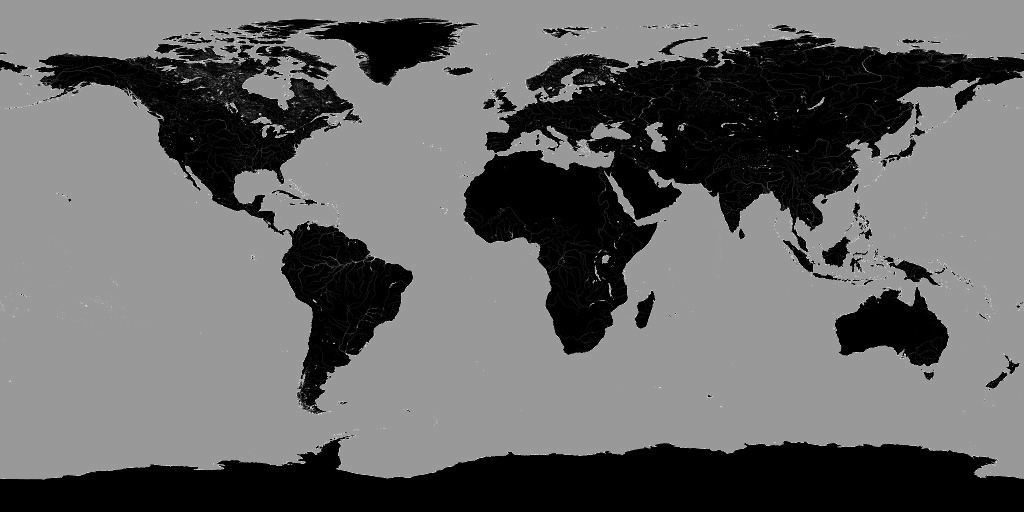
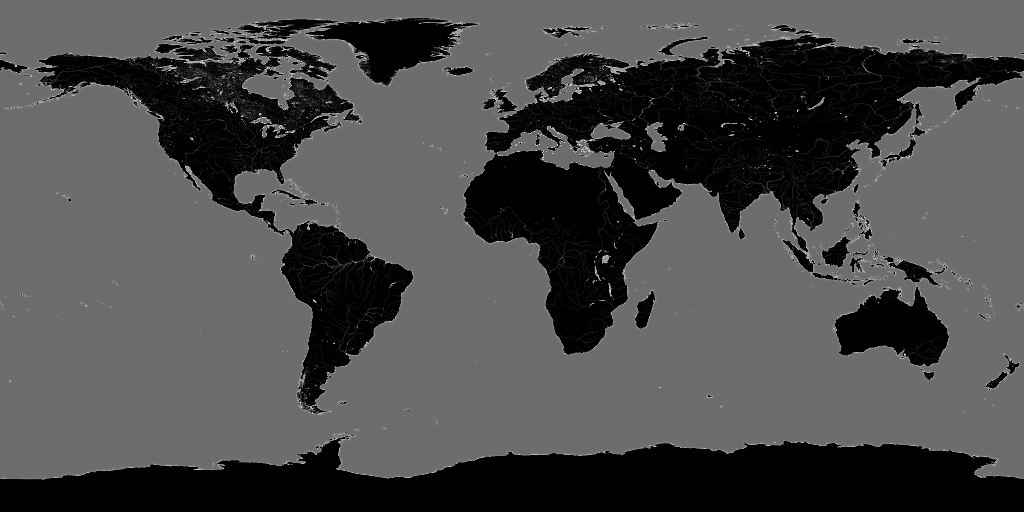
Improved earth specular texture & UI
Improved earth specular texture
Added graphical alternative for play/pause button

diff --git a/core/src/gaia/cu9/ari/gaiaorbit/interfce/FullGui.java b/core/src/gaia/cu9/ari/gaiaorbit/interfce/FullGui.java
@@ -54,7 +54,6 @@ import com.badlogic.gdx.scenes.scene2d.ui.SelectBox;
 import com.badlogic.gdx.scenes.scene2d.ui.Skin;
 import com.badlogic.gdx.scenes.scene2d.ui.Slider;
 import com.badlogic.gdx.scenes.scene2d.ui.Table;
-import com.badlogic.gdx.scenes.scene2d.ui.TextButton;
 import com.badlogic.gdx.scenes.scene2d.ui.TextField;
 import com.badlogic.gdx.scenes.scene2d.ui.Tree;
 import com.badlogic.gdx.scenes.scene2d.ui.Tree.Node;
@@ -91,8 +90,8 @@ public class FullGui implements IGui, IObserver {
     protected SelectBox<String> cameraMode;
     protected TextField inputPace, searchBox;
     protected Button plus, minus;
-    protected TextButton playstop;
     protected ImageButton dateEdit;
+    protected OwnImageButton playstop;
     protected OwnScrollPane focusListScrollPane;
     protected Slider fieldOfView, starBrightness, bloomEffect, ambientLight, cameraSpeed, turnSpeed, rotateSpeed;
     protected CheckBox focusLock, transitColor, onlyObservedStars, computeGaiaScan, lensFlare;
@@ -172,7 +171,7 @@ public class FullGui implements IGui, IObserver {
 	buildGui();
 
 	// We must subscribe to the desired events
-	EventManager.getInstance().subscribe(this, Events.FOV_CHANGED_CMD, Events.CAMERA_MODE_CMD, Events.TIME_CHANGE_INFO, Events.SIMU_TIME_TOGGLED_INFO, Events.SHOW_ABOUT_ACTION, Events.SHOW_TUTORIAL_ACTION, Events.SHOW_SEARCH_ACTION, Events.FOCUS_CHANGED, Events.TOGGLE_VISIBILITY_CMD, Events.PACE_CHANGED_INFO, Events.GUI_SCROLL_POSITION_CMD, Events.GUI_FOLD_CMD, Events.GUI_MOVE_CMD, Events.ROTATION_SPEED_CMD, Events.CAMERA_SPEED_CMD, Events.TURNING_SPEED_CMD, Events.TIME_CHANGE_CMD);
+	EventManager.getInstance().subscribe(this, Events.FOV_CHANGED_CMD, Events.CAMERA_MODE_CMD, Events.TIME_CHANGE_INFO, Events.TOGGLE_TIME_CMD, Events.SHOW_TUTORIAL_ACTION, Events.SHOW_SEARCH_ACTION, Events.FOCUS_CHANGED, Events.TOGGLE_VISIBILITY_CMD, Events.PACE_CHANGED_INFO, Events.GUI_SCROLL_POSITION_CMD, Events.GUI_FOLD_CMD, Events.GUI_MOVE_CMD, Events.ROTATION_SPEED_CMD, Events.CAMERA_SPEED_CMD, Events.TURNING_SPEED_CMD, Events.TIME_CHANGE_CMD);
     }
 
     private void buildGui() {
@@ -703,14 +702,14 @@ public class FullGui implements IGui, IObserver {
 	});
 
 	// Play/stop
-	playstop = new OwnTextButton(txt("gui.play.upper"), skin);
+	playstop = new OwnImageButton(skin, "playstop");
 	playstop.setName("play stop");
-	playstop.setSize(90, 20);
+	playstop.setChecked(GlobalConf.instance.TIME_ON);
 	playstop.addListener(new EventListener() {
 	    @Override
 	    public boolean handle(Event event) {
 		if (event instanceof ChangeEvent) {
-		    EventManager.getInstance().post(Events.SIMU_TIME_TOGGLED);
+		    EventManager.getInstance().post(Events.TOGGLE_TIME_CMD, playstop.isChecked(), true);
 		    return true;
 		}
 		return false;
@@ -1120,20 +1119,17 @@ public class FullGui implements IGui, IObserver {
 		}
 	    }
 	    break;
-	case SIMU_TIME_TOGGLED_INFO:
-	    // Pause has been toggled, update playstop button
-	    boolean timeOn = (Boolean) data[0];
-	    if (timeOn) {
-		playstop.setText(txt("gui.pause.upper"));
-	    } else {
-		playstop.setText(txt("gui.play.upper"));
+	case TOGGLE_TIME_CMD:
+	    // Pause has been toggled, update playstop button only if this does not come from this interface
+	    if (!(Boolean) data[1]) {
+		Boolean timeOn = null;
+		if (data[0] != null) {
+		    timeOn = (Boolean) data[0];
+		} else {
+		    timeOn = !playstop.isChecked();
+		}
+		playstop.setCheckedNoFire(timeOn);
 	    }
-	    break;
-	case SHOW_ABOUT_ACTION:
-	    //	    if (aboutDialog == null) {
-	    //		aboutDialog = new AboutWindow(this, skin);
-	    //	    }
-	    //	    aboutDialog.display();
 	    break;
 	case SHOW_TUTORIAL_ACTION:
 	    EventManager.getInstance().post(Events.RUN_SCRIPT_PATH, GlobalConf.instance.TUTORIAL_SCRIPT_LOCATION);

diff --git a/core/src/gaia/cu9/ari/gaiaorbit/util/GlobalConf.java b/core/src/gaia/cu9/ari/gaiaorbit/util/GlobalConf.java
@@ -49,7 +49,7 @@ public class GlobalConf implements IObserver {
     public String LOCALE;
     public int SCREENSHOT_WIDTH, SCREENSHOT_HEIGHT;
     public Date LAST_CHECKED;
-    public boolean STEREOSCOPIC_MODE, CLEAN_MODE, GLOBAL_PAUSE = false;
+    public boolean STEREOSCOPIC_MODE, CLEAN_MODE, GLOBAL_PAUSE = false, TIME_ON = false;
     /** Eye separation in stereoscopic mode in meters **/
     public float STEREOSCOPIC_EYE_SEPARATION_M = 1;
 
@@ -188,7 +188,7 @@ public class GlobalConf implements IObserver {
 	    EventManager.getInstance().post(Events.JAVA_EXCEPTION, e);
 	}
 
-	EventManager.getInstance().subscribe(this, Events.TRANSIT_COLOUR_CMD, Events.ONLY_OBSERVED_STARS_CMD, Events.COMPUTE_GAIA_SCAN_CMD, Events.STAR_BRIGHTNESS_CMD, Events.BLOOM_CMD, Events.FOV_CHANGED_CMD, Events.FOCUS_LOCK_CMD, Events.CAMERA_SPEED_CMD, Events.ROTATION_SPEED_CMD, Events.TURNING_SPEED_CMD, Events.INPUT_ENABLED_CMD, Events.CONFIG_RENDER_SYSTEM, Events.RENDER_SYSTEM_CMD, Events.LENS_FLARE_CMD, Events.LIMIT_MAG_CMD, Events.TOGGLE_STEREOSCOPIC, Events.TOGGLE_CLEANMODE, Events.TOGGLE_GLOBALPAUSE);
+	EventManager.getInstance().subscribe(this, Events.TRANSIT_COLOUR_CMD, Events.ONLY_OBSERVED_STARS_CMD, Events.COMPUTE_GAIA_SCAN_CMD, Events.STAR_BRIGHTNESS_CMD, Events.BLOOM_CMD, Events.FOV_CHANGED_CMD, Events.FOCUS_LOCK_CMD, Events.CAMERA_SPEED_CMD, Events.ROTATION_SPEED_CMD, Events.TURNING_SPEED_CMD, Events.INPUT_ENABLED_CMD, Events.CONFIG_RENDER_SYSTEM, Events.RENDER_SYSTEM_CMD, Events.LENS_FLARE_CMD, Events.LIMIT_MAG_CMD, Events.TOGGLE_STEREOSCOPIC, Events.TOGGLE_CLEANMODE, Events.TOGGLE_GLOBALPAUSE, Events.TOGGLE_TIME_CMD);
     }
 
     /**
@@ -392,10 +392,23 @@ public class GlobalConf implements IObserver {
 	case TOGGLE_GLOBALPAUSE:
 	    GLOBAL_PAUSE = !GLOBAL_PAUSE;
 	    break;
+	case TOGGLE_TIME_CMD:
+	    toggleTimeOn((Boolean) data[0]);
 	default:
 	    break;
 	}
 
+    }
+
+    /**
+     * Toggles the time
+     */
+    public void toggleTimeOn(Boolean timeOn) {
+	if (timeOn != null) {
+	    TIME_ON = timeOn;
+	} else {
+	    TIME_ON = !TIME_ON;
+	}
     }
 
     public int getScreenWidth() {

diff --git a/core/src/gaia/cu9/ari/gaiaorbit/interfce/NotificationsInterface.java b/core/src/gaia/cu9/ari/gaiaorbit/interfce/NotificationsInterface.java
@@ -49,7 +49,7 @@ public class NotificationsInterface extends Table implements IObserver {
 	this.add(message).left();
 	this.historical = new LinkedList<MessageBean>();
 	this.df = DateFormat.getDateInstance(DateFormat.SHORT);
-	EventManager.getInstance().subscribe(this, Events.POST_NOTIFICATION, Events.FOCUS_CHANGED, Events.SIMU_TIME_TOGGLED_INFO, Events.TOGGLE_VISIBILITY_CMD, Events.CAMERA_MODE_CMD, Events.PACE_CHANGED_INFO, Events.FOCUS_LOCK_CMD, Events.TOGGLE_AMBIENT_LIGHT, Events.FOV_CHANGE_NOTIFICATION, Events.JAVA_EXCEPTION, Events.ORBIT_DATA_LOADED, Events.SCREENSHOT_INFO, Events.COMPUTE_GAIA_SCAN_CMD, Events.ONLY_OBSERVED_STARS_CMD, Events.TRANSIT_COLOUR_CMD, Events.LIMIT_MAG_CMD, Events.TOGGLE_STEREOSCOPIC, Events.TOGGLE_CLEANMODE, Events.TOGGLE_GLOBALPAUSE);
+	EventManager.getInstance().subscribe(this, Events.POST_NOTIFICATION, Events.FOCUS_CHANGED, Events.TOGGLE_TIME_CMD, Events.TOGGLE_VISIBILITY_CMD, Events.CAMERA_MODE_CMD, Events.PACE_CHANGED_INFO, Events.FOCUS_LOCK_CMD, Events.TOGGLE_AMBIENT_LIGHT, Events.FOV_CHANGE_NOTIFICATION, Events.JAVA_EXCEPTION, Events.ORBIT_DATA_LOADED, Events.SCREENSHOT_INFO, Events.COMPUTE_GAIA_SCAN_CMD, Events.ONLY_OBSERVED_STARS_CMD, Events.TRANSIT_COLOUR_CMD, Events.LIMIT_MAG_CMD, Events.TOGGLE_STEREOSCOPIC, Events.TOGGLE_CLEANMODE, Events.TOGGLE_GLOBALPAUSE);
     }
 
     private void addMessage(String msg) {
@@ -95,8 +95,13 @@ public class NotificationsInterface extends Table implements IObserver {
 		    addMessage(I18n.bundle.format("notif.camerafocus", sgn.name));
 		}
 		break;
-	    case SIMU_TIME_TOGGLED_INFO:
-		addMessage(I18n.bundle.format("notif.simulation.pause", ((Boolean) data[0]) ? 0 : 1));
+	    case TOGGLE_TIME_CMD:
+		Boolean bool = (Boolean) data[0];
+		if (bool == null) {
+		    addMessage(I18n.bundle.format("notif.toggle", I18n.bundle.format("gui.time")));
+		} else {
+		    addMessage(I18n.bundle.format("notif.simulation.pause", (bool ? 0 : 1)));
+		}
 		break;
 	    case TOGGLE_VISIBILITY_CMD:
 		if (data.length == 2)

diff --git a/core/src/gaia/cu9/ari/gaiaorbit/GaiaSandbox.java b/core/src/gaia/cu9/ari/gaiaorbit/GaiaSandbox.java
@@ -66,7 +66,6 @@ import com.badlogic.gdx.graphics.glutils.FrameBuffer;
  *
  */
 public class GaiaSandbox implements ApplicationListener, IObserver {
-    private static boolean TIME_ON = false;
     private static boolean LOADING = true;
 
     private static GaiaSandbox instance;
@@ -302,7 +301,7 @@ public class GaiaSandbox implements ApplicationListener, IObserver {
 	EventManager.getInstance().post(Events.TIME_CHANGE_INFO, GlobalClock.clock.time);
 
 	// Subscribe to events
-	EventManager.getInstance().subscribe(this, Events.SIMU_TIME_TOGGLED, Events.TOGGLE_AMBIENT_LIGHT, Events.AMBIENT_LIGHT_CMD, Events.SCREENSHOT_CMD, Events.FULLSCREEN_CMD);
+	EventManager.getInstance().subscribe(this, Events.TOGGLE_AMBIENT_LIGHT, Events.AMBIENT_LIGHT_CMD, Events.SCREENSHOT_CMD, Events.FULLSCREEN_CMD);
 
 	// Run garbage collector before starting
 	System.gc();
@@ -419,7 +418,7 @@ public class GaiaSandbox implements ApplicationListener, IObserver {
 	renderGui.update(dt);
 
 	float dtScene = dt;
-	if (!TIME_ON) {
+	if (!GlobalConf.instance.TIME_ON) {
 	    dtScene = 0;
 	}
 	// Update clock
@@ -529,18 +528,6 @@ public class GaiaSandbox implements ApplicationListener, IObserver {
     public void resume() {
     }
 
-    /**
-     * Toggles the time
-     */
-    public void toggleTimeOn(Boolean timeOn) {
-	if (timeOn != null) {
-	    TIME_ON = timeOn;
-	} else {
-	    TIME_ON = !TIME_ON;
-	}
-	EventManager.getInstance().post(Events.SIMU_TIME_TOGGLED_INFO, TIME_ON);
-    }
-
     public List<CelestialBody> getFocusableEntities() {
 
 	return sg.getFocusableObjects();
@@ -557,9 +544,6 @@ public class GaiaSandbox implements ApplicationListener, IObserver {
     @Override
     public void notify(Events event, Object... data) {
 	switch (event) {
-	case SIMU_TIME_TOGGLED:
-	    toggleTimeOn(data.length == 0 ? null : (Boolean) data[0]);
-	    break;
 	case TOGGLE_AMBIENT_LIGHT:
 	    // TODO No better place to put this??
 	    ModelComponent.toggleAmbientLight((Boolean) data[1]);

diff --git a/desktop/src/gaia/cu9/ari/gaiaorbit/gui/swing/Gui.java b/desktop/src/gaia/cu9/ari/gaiaorbit/gui/swing/Gui.java
@@ -262,7 +262,7 @@ public class Gui implements IObserver {
 	playPause.addActionListener(new ActionListener() {
 	    @Override
 	    public void actionPerformed(ActionEvent e) {
-		EventManager.getInstance().post(Events.SIMU_TIME_TOGGLED, playPause.isSelected());
+		EventManager.getInstance().post(Events.TOGGLE_TIME_CMD, playPause.isSelected(), true);
 	    }
 	});
 
@@ -530,7 +530,7 @@ public class Gui implements IObserver {
 	frame.add(mainPanel, BorderLayout.CENTER);
 	frame.setMinimumSize(new Dimension(450, 300));
 
-	EventManager.getInstance().subscribe(this, Events.FPS_INFO, Events.SIMU_TIME_TOGGLED_INFO, Events.TIME_CHANGE_INFO, Events.CAMERA_MODE_CMD, Events.VISIBILITY_OF_COMPONENTS, Events.PACE_CHANGED_INFO, Events.FOCUS_LOCK_CMD, Events.FULLSCREEN_CMD, Events.FOCUS_CHANGED);
+	EventManager.getInstance().subscribe(this, Events.FPS_INFO, Events.TOGGLE_TIME_CMD, Events.TIME_CHANGE_INFO, Events.CAMERA_MODE_CMD, Events.VISIBILITY_OF_COMPONENTS, Events.PACE_CHANGED_INFO, Events.FOCUS_LOCK_CMD, Events.FULLSCREEN_CMD, Events.FOCUS_CHANGED);
     }
 
     private void mySingleClick(int row, TreePath path) {
@@ -592,10 +592,12 @@ public class Gui implements IObserver {
 	case FPS_INFO:
 	    fpsLabel.setText((Integer) data[0] + " FPS");
 	    break;
-	case SIMU_TIME_TOGGLED_INFO:
-	    boolean timeOn = (Boolean) data[0];
-	    if (playPause.isSelected() != timeOn)
-		playPause.setSelected(timeOn, true);
+	case TOGGLE_TIME_CMD:
+	    if (!(Boolean) data[1]) {
+		boolean timeOn = (Boolean) data[0];
+		if (playPause.isSelected() != timeOn)
+		    playPause.setSelected(timeOn, true);
+	    }
 	    break;
 	case TIME_CHANGE_INFO:
 	    // Set date to date and time

diff --git a/core/src/gaia/cu9/ari/gaiaorbit/event/Events.java b/core/src/gaia/cu9/ari/gaiaorbit/event/Events.java
@@ -62,8 +62,8 @@ public enum Events {
     /** Contains the distance [0] and the viewing angle [1] **/
     FOCUS_INFO_UPDATED,
 
-    /** Issues the command to toggle the time. Contains boolean (optional) indicating whether the time is on or off (true/false). If no boolean, time is just toggled **/
-    SIMU_TIME_TOGGLED,
+    /** Issues the command to toggle the time. Contains the boolean indicating the state (may be null) and a boolean indicating whether this coems from the interface. **/
+    TOGGLE_TIME_CMD,
     /** Contains the name of the type, a boolean indicating if this comes from the interface and an optional boolean with the state **/
     TOGGLE_VISIBILITY_CMD,
     /** Contains the name, the boolean value, and a boolean indicating if this comes from the interface **/
@@ -90,8 +90,6 @@ public enum Events {
     PACE_DIVIDE_CMD,
     /** Contains the new pace **/
     PACE_CHANGED_INFO,
-    /** Informs of a time toggle. Contains a boolean indicating whether the time has been set to on or off (true/false) **/
-    SIMU_TIME_TOGGLED_INFO,
     /** Will be displayed in the notifications area (bottom left). Contains an array of strings with the messages **/
     POST_NOTIFICATION,
     /** Contains a string with the headline message, will be displayed in a big font in the center of the screen **/

diff --git a/core/src/gaia/cu9/ari/gaiaorbit/util/scene2d/OwnImageButton.java b/core/src/gaia/cu9/ari/gaiaorbit/util/scene2d/OwnImageButton.java
@@ -9,6 +9,8 @@ import com.badlogic.gdx.scenes.scene2d.InputEvent;
 import com.badlogic.gdx.scenes.scene2d.InputEvent.Type;
 import com.badlogic.gdx.scenes.scene2d.ui.ImageButton;
 import com.badlogic.gdx.scenes.scene2d.ui.Skin;
+import com.badlogic.gdx.utils.Array;
+import com.badlogic.gdx.utils.DelayedRemovalArray;
 
 /**
  * ImageButton in which the cursor changes when the mouse rolls over.
@@ -16,6 +18,7 @@ import com.badlogic.gdx.scenes.scene2d.ui.Skin;
  *
  */
 public class OwnImageButton extends ImageButton {
+    Array<EventListener> listeners;
 
     public OwnImageButton(Skin skin) {
 	super(skin);
@@ -32,7 +35,24 @@ public class OwnImageButton extends ImageButton {
 	initialize();
     }
 
+    public void setCheckedNoFire(boolean isChecked) {
+	// Remove listeners
+
+	for (EventListener listener : this.getListeners()) {
+	    listeners.add(listener);
+	}
+	this.clearListeners();
+	// Check
+	this.setChecked(isChecked);
+	// Add listeners
+	for (EventListener listener : listeners) {
+	    this.addListener(listener);
+	}
+	listeners.clear();
+    }
+
     private void initialize() {
+	listeners = new DelayedRemovalArray();
 	this.addListener(new EventListener() {
 	    @Override
 	    public boolean handle(Event event) {

diff --git a/core/src/gaia/cu9/ari/gaiaorbit/interfce/LoadingGui.java b/core/src/gaia/cu9/ari/gaiaorbit/interfce/LoadingGui.java
@@ -75,7 +75,7 @@ public class LoadingGui implements IGui, IObserver {
 
 	rebuildGui();
 	if (progress) {
-	    EventManager.getInstance().subscribe(this, Events.POST_NOTIFICATION, Events.SIMU_TIME_TOGGLED_INFO, Events.TOGGLE_VISIBILITY_CMD, Events.CAMERA_MODE_CMD, Events.PACE_CHANGE_CMD, Events.FOCUS_LOCK_CMD, Events.TOGGLE_AMBIENT_LIGHT, Events.FOV_CHANGE_NOTIFICATION, Events.JAVA_EXCEPTION, Events.ORBIT_DATA_LOADED, Events.SCREENSHOT_INFO);
+	    EventManager.getInstance().subscribe(this, Events.POST_NOTIFICATION, Events.TOGGLE_TIME_CMD, Events.TOGGLE_VISIBILITY_CMD, Events.CAMERA_MODE_CMD, Events.PACE_CHANGE_CMD, Events.FOCUS_LOCK_CMD, Events.TOGGLE_AMBIENT_LIGHT, Events.FOV_CHANGE_NOTIFICATION, Events.JAVA_EXCEPTION, Events.ORBIT_DATA_LOADED, Events.SCREENSHOT_INFO);
 	}
     }
 
@@ -147,7 +147,7 @@ public class LoadingGui implements IGui, IObserver {
 	synchronized (lock) {
 	    switch (event) {
 	    case POST_NOTIFICATION:
-	    case SIMU_TIME_TOGGLED_INFO:
+	    case TOGGLE_TIME_CMD:
 	    case TOGGLE_VISIBILITY_CMD:
 	    case FOCUS_LOCK_CMD:
 	    case TOGGLE_AMBIENT_LIGHT:

diff --git a/core/src/sandbox/script/EventScriptingInterface.java b/core/src/sandbox/script/EventScriptingInterface.java
@@ -219,12 +219,12 @@ public class EventScriptingInterface implements IScriptingInterface, IObserver {
 
     @Override
     public void startSimulationTime() {
-	em.post(Events.SIMU_TIME_TOGGLED, true);
+	em.post(Events.TOGGLE_TIME_CMD, true, false);
     }
 
     @Override
     public void stopSimulationTime() {
-	em.post(Events.SIMU_TIME_TOGGLED, false);
+	em.post(Events.TOGGLE_TIME_CMD, false, false);
     }
 
     @Override

diff --git a/desktop/src/gaia/cu9/ari/gaiaorbit/gui/swing/MainMenuBar.java b/desktop/src/gaia/cu9/ari/gaiaorbit/gui/swing/MainMenuBar.java
@@ -103,7 +103,7 @@ public class MainMenuBar extends JMenuBar implements IObserver {
 	menuItem.addActionListener(new ActionListener() {
 	    @Override
 	    public void actionPerformed(ActionEvent e) {
-		EventManager.getInstance().post(Events.SIMU_TIME_TOGGLED);
+		EventManager.getInstance().post(Events.TOGGLE_TIME_CMD);
 	    }
 	});
 	menu.add(menuItem);

diff --git a/core/src/gaia/cu9/ari/gaiaorbit/interfce/KeyMappings.java b/core/src/gaia/cu9/ari/gaiaorbit/interfce/KeyMappings.java
@@ -173,7 +173,7 @@ public class KeyMappings {
 	addMapping(new ProgramAction(txt("action.pauseresume"), new Runnable() {
 	    @Override
 	    public void run() {
-		EventManager.getInstance().post(Events.SIMU_TIME_TOGGLED, (Object) null);
+		EventManager.getInstance().post(Events.TOGGLE_TIME_CMD, null, false);
 	    }
 	}), Keys.SPACE);
 
